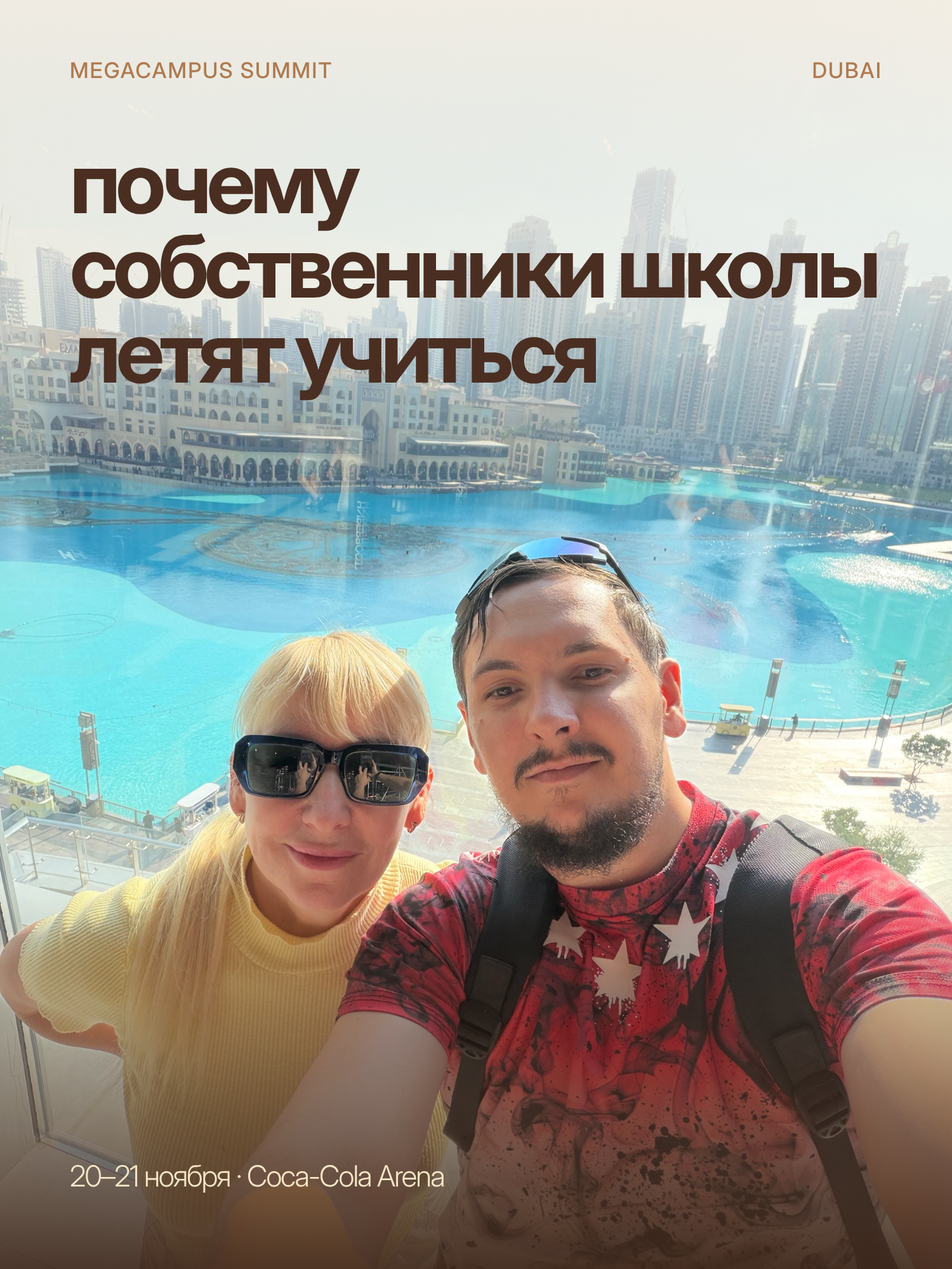
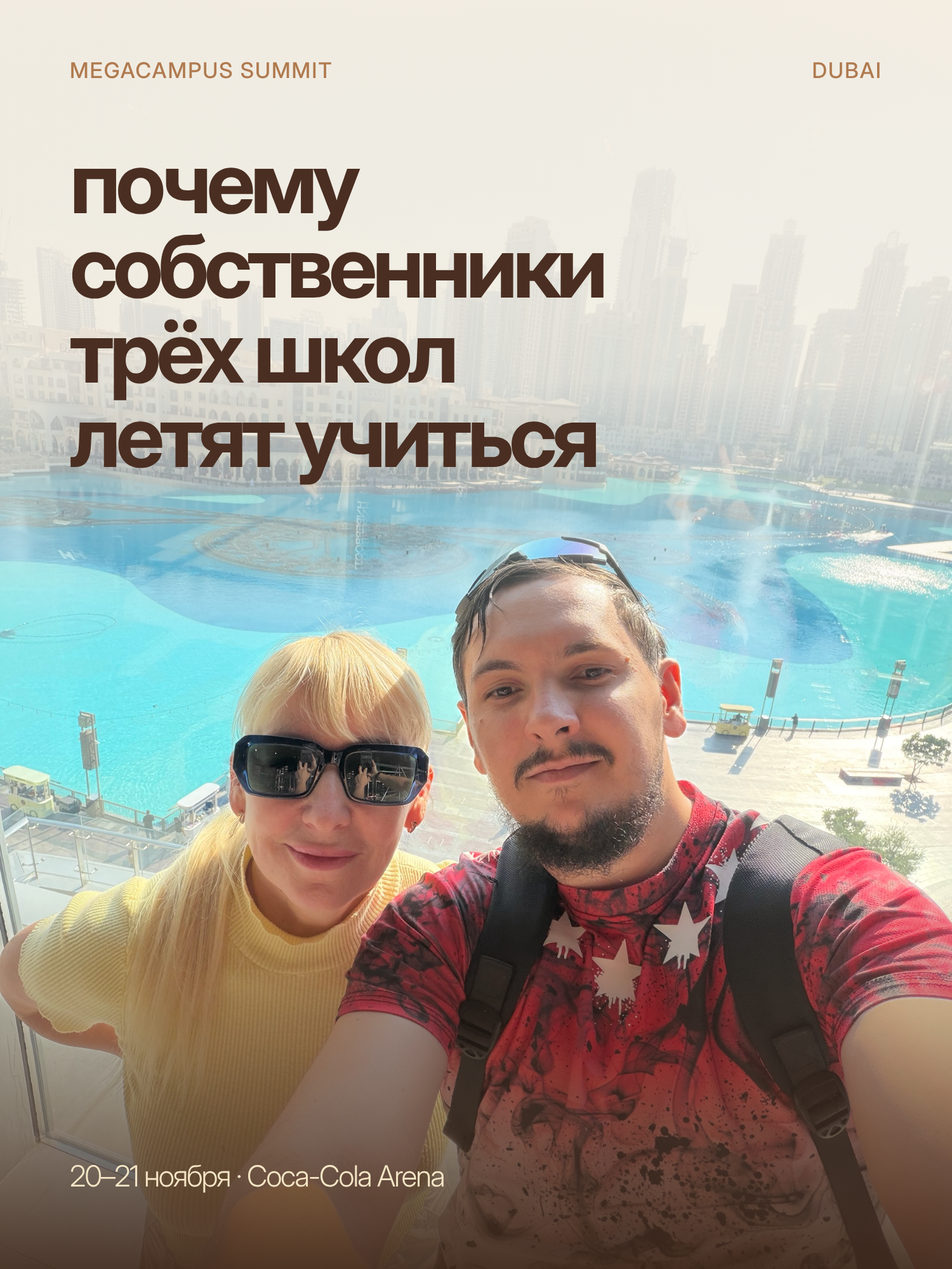
Summit carousel: cover mentions three schools
Claude-Session: https://claude.ai/code/session_01EUhV7wSY77qAG1LrFAuACB

Changed region(s): [[0.0, 0.186, 1.0, 0.465]]

diff --git a/carousel-summit/carousel.html b/carousel-summit/carousel.html
@@ -31,9 +31,9 @@
 <!-- 1. Обложка -->
 <section class="slide" id="s1">
   <img class="bg" src="photos/dubai.jpg" style="object-position:50% 40%">
-  <div class="abs" style="inset:0;background:linear-gradient(180deg,rgba(245,237,225,.92) 0%,rgba(245,237,225,.6) 22%,rgba(245,237,225,0) 38%,rgba(59,36,24,0) 70%,rgba(59,36,24,.9) 100%)"></div>
+  <div class="abs" style="inset:0;background:linear-gradient(180deg,rgba(245,237,225,.95) 0%,rgba(245,237,225,.8) 30%,rgba(245,237,225,0) 50%,rgba(59,36,24,0) 70%,rgba(59,36,24,.9) 100%)"></div>
   <div class="meta"><span>Megacampus Summit</span><span>Dubai</span></div>
-  <div class="abs h" style="left:110px;top:220px;font-size:136px">почему<br>собственники школы<br>летят учиться</div>
+  <div class="abs h" style="left:110px;top:220px;font-size:136px">почему<br>собственники<br>трёх школ<br>летят учиться</div>
   <div class="abs t" style="left:110px;bottom:120px;font-size:46px;color:var(--milk)">20–21 ноября · Coca-Cola Arena</div>
 </section>
 
